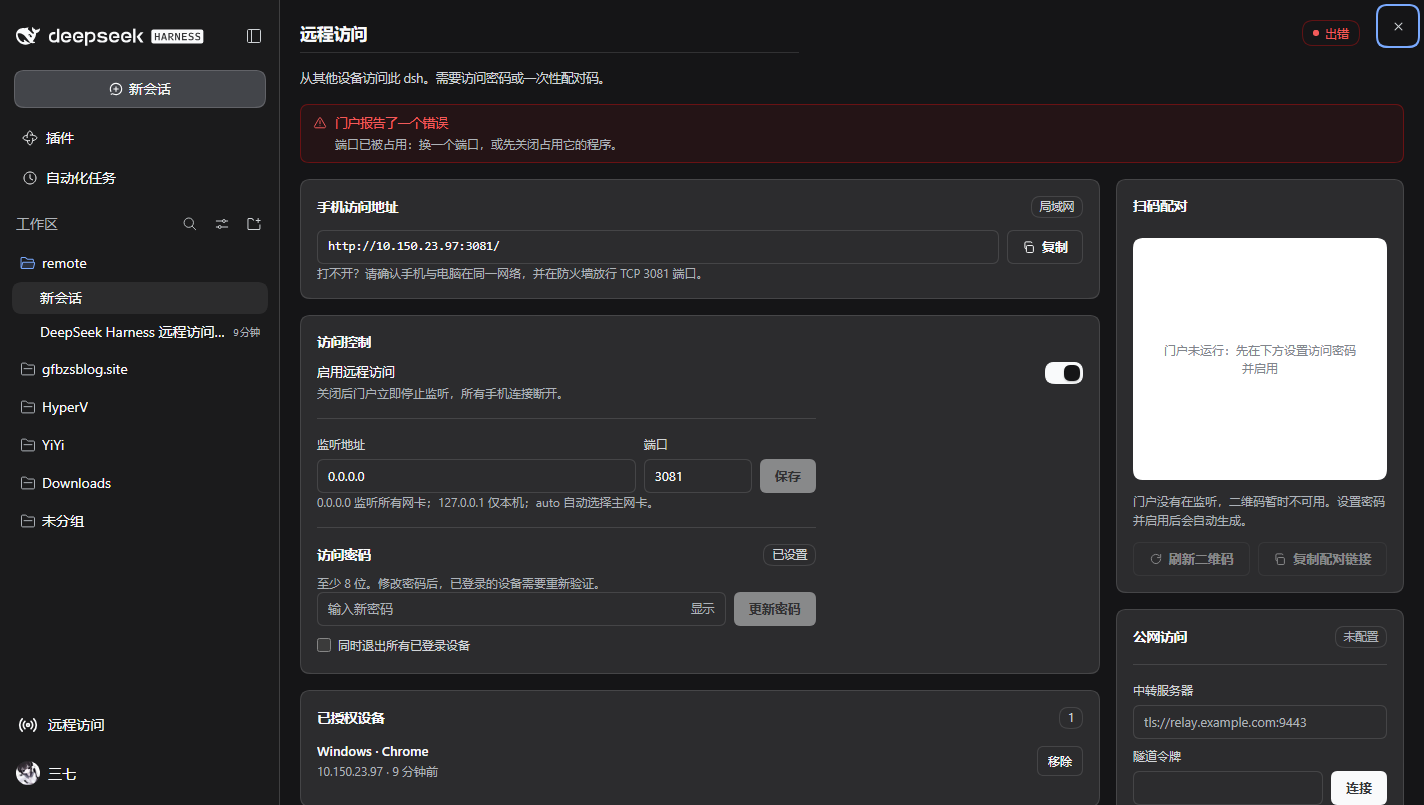
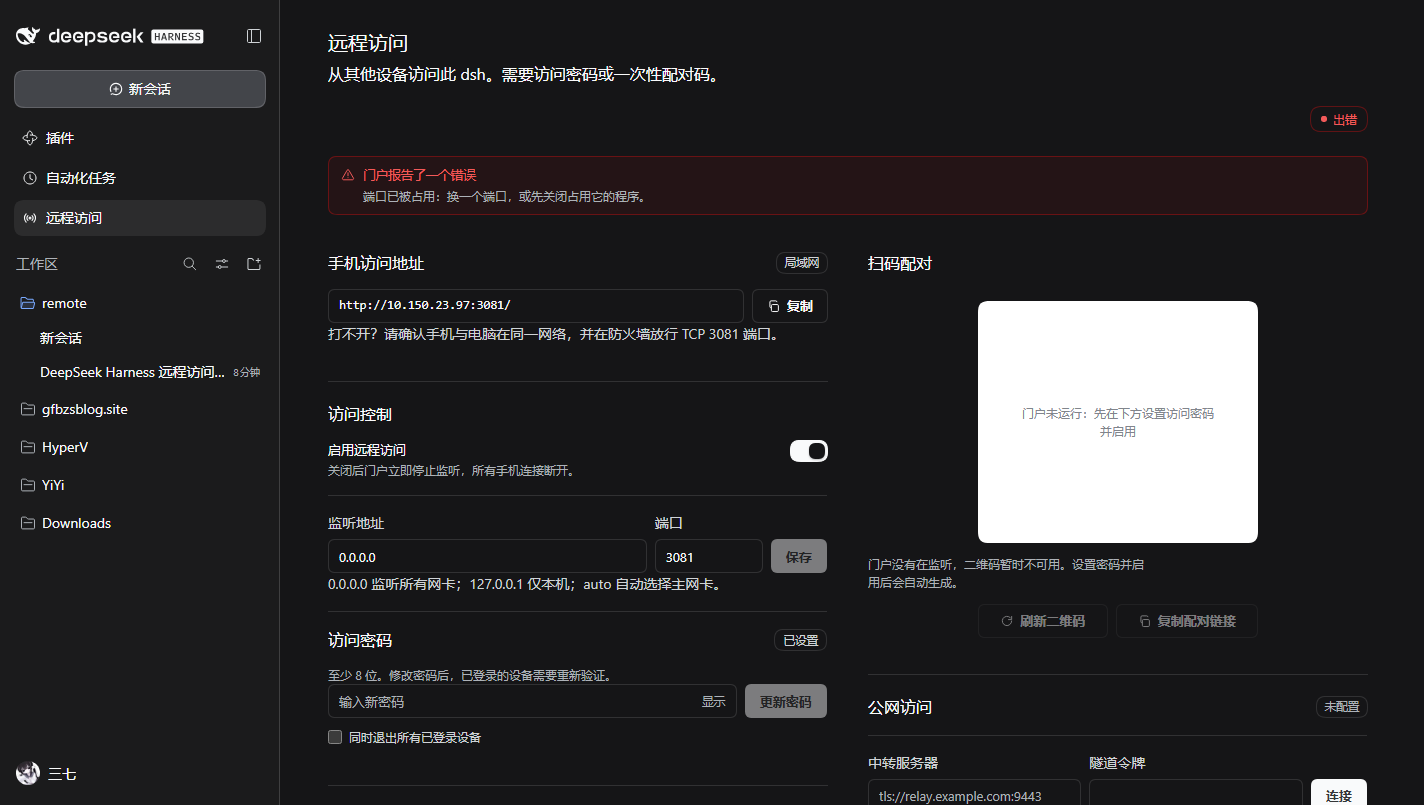
feat!: the panel is a real main-area page (0.3.0)
The host has two slots that make a page: sidebar.panellist (the button) and main
(a keyed slot dispatched by that entry's id). Registering the same id in both --
what plugin-manager and schedule do -- gives a page switch, no overlay:

- selecting 插件 or a session leaves the panel by itself; the X is gone
- the conversation DOM is replaced instead of covered, so navigation keeps working
- the entry is a first-class sidebar row with the Harness mark
- ?panel=1 selects that row instead of forcing a view

Typography now matches the host page measured off 插件: 48px gutters, 20px/500
title, 16px body, divider-separated groups instead of cards, two columns on wide
pages and one on narrow, duplicate title removed.

Removed the shell.overlay sheet and the sidebar.footer.action entry: one home.

76 tests green.

diff --git a/client.js b/client.js
@@ -56,7 +56,7 @@ window.__ModuleLoader__.load({
     // prefix. An absolute path here would break remote access through a tunnel.
     var BASE = "./dsh-remote-portal";
   // Must match package.json: it is what busts the browser cache for the layer.
-  var CLIENT_VERSION = "0.2.9";
+  var CLIENT_VERSION = "0.3.0";
     var POLL_MS = 3000;         // status poll while the settings page is visible
     var MIN_PW = 8;             // matches the host's "≥8 recommended" rule (§3)
     var COPY_FEEDBACK_MS = 1600;
@@ -632,6 +632,26 @@ window.__ModuleLoader__.load({
       ".drp-x:hover{background:rgba(127,127,127,.14);color:var(--drp-fg)}",
       ".drp-x:focus-visible{outline:2px solid var(--drp-link);outline-offset:2px}",
       ".drp-sheet-x{position:absolute;top:12px;right:12px;z-index:5;width:36px;height:36px;background:transparent;border:0;display:grid;place-items:center;color:var(--drp-fg2);border-radius:9px}",
+      /* main-area page (the panel's home) */
+      ".drp-page{height:100%;overflow-y:auto;overscroll-behavior:contain;padding:0 48px 48px}",
+      ".drp-page-inner{width:100%;max-width:100%;margin:0}",
+      /* The host page header: 20px/500 title, 16px supporting line. */
+      ".drp-page-head{display:flex;align-items:flex-start;justify-content:space-between;gap:16px;padding:28px 0 20px}",
+      ".drp-page-title{margin:0;font-size:20px;font-weight:500;line-height:28px;letter-spacing:0}",
+      ".drp-page-sub{margin:6px 0 0;font-size:16px;line-height:24px;color:var(--drp-fg2)}",
+      /* Groups, not cards: the host uses a divider and a group label. */
+      ".drp-page .drp-card{background:transparent;border:0;border-top:0.5px solid var(--drp-line);border-radius:0;padding:20px 0}",
+      ".drp-page .drp-card:first-of-type{border-top:0}",
+      ".drp-page .drp-card-head{margin:0 0 14px}",
+      ".drp-page .drp-card-title{font-size:16px;font-weight:500;line-height:24px}",
+      ".drp-page .drp-label{font-size:14px;color:var(--drp-fg2)}",
+      ".drp-page .drp-hint{font-size:14px;line-height:22px;color:var(--drp-fg2)}",
+      /* Two columns when the page is wide enough, one when it is not — the same
+         behaviour the host's own pages have. */
+      ".drp-page .drp-grid{display:grid;grid-template-columns:minmax(0,1fr) minmax(0,1fr);gap:0 40px;align-items:start}",
+      ".drp-page .drp-head{padding:0 0 8px}",
+      ".drp-page .drp-head-top{justify-content:flex-end}",
+      "@media (max-width:900px){.drp-page{padding:0 20px 32px}.drp-page-head{padding:18px 0 14px}}",
       /* directory picker */
       ".drp-picker-body{display:flex;flex-direction:column;min-height:0;overflow:hidden}",
       ".drp-picker{flex:1 1 auto;min-height:0;width:100%;max-width:880px;margin:0 auto;display:flex;flex-direction:column;gap:10px}",
@@ -1139,6 +1159,7 @@ window.__ModuleLoader__.load({
       // The same component renders in two surfaces: inline in Settings, and
       // inside the shell.overlay sheet (props.sheet + props.onClose).
       var inSheet = !!(props && props.sheet);
+      var isPage = !!(props && props.page);
       var stateRef = useState(INITIAL);
       var st = stateRef[0];
       var setSt = stateRef[1];
@@ -1878,14 +1899,15 @@ window.__ModuleLoader__.load({
           // owns the full width underneath, so a long sentence never pushes the
           // pill onto a line of its own on a phone.
           h("div", { className: "drp-head-top" },
-            h("h2", {
+            // In page mode the page header owns the title; the section keeps the pill.
+            isPage ? null : h("h2", {
               className: "drp-title",
               // Only the sheet instance claims the dialog's label id, so the
               // inline section can never collide with it.
               id: inSheet ? "drp-sheet-title" : undefined
             }, t("section")),
             h(StatusPill, { tone: tone })),
-          h("p", { className: "drp-sub" }, t("subtitle"))),
+          isPage ? null : h("p", { className: "drp-sub" }, t("subtitle"))),
 
         alerts.length ? h("div", { className: "drp-alerts" }, alerts) : null,
 
@@ -2353,57 +2375,68 @@ window.__ModuleLoader__.load({
       // 0) Global stylesheet first: every surface below depends on it.
       try { mountBaseCss(ctx); } catch (e) { /* never fatal */ }
 
-      // 1) Settings → 远程访问: deliberately not registered. The sidebar entry is
-      //    the single home; a second copy inside Settings duplicated every control
-      //    and read as a different destination.
-
-      // 2) Sidebar footer shortcut. Older hosts have no such slot; inject() is
-      //    a no-op there, and any throw is swallowed.
+      // 1) A real page in the main column, exactly like 插件 / 自动化任务.
+      //
+      //    The host dispatches `main` by the sidebar entry's id: registering the
+      //    same id in `sidebar.panellist` (the button) and `main` (the page) is
+      //    what makes it a page switch rather than an overlay — the sidebar keeps
+      //    working and selecting a session or another panel closes it by itself.
+      var PANEL_ID = "dsh-remote-portal";
       try {
         if (ctx && ctx.slots && typeof ctx.slots.inject === "function") {
-          ctx.slots.inject("sidebar.footer.action", function () {
+          ctx.slots.inject("sidebar.panellist", function () {
             return ctx.slots.register({
-              name: "sidebar.footer.action",
-              id: "dsh-remote-portal-nav",
-              order: 60,
+              name: "sidebar.panellist",
+              id: PANEL_ID,
+              order: 90,
               label: function () { return t("navLabel"); }
-            }, NavEntry);
+            }, function PanelIcon(props) {
+              return h(Icon, { name: "portal", size: (props && props.size) || 18 });
+            });
+          });
+          ctx.slots.inject("main", function () {
+            return ctx.slots.register({ name: "main", key: PANEL_ID }, function PanelPage() {
+              return h("div", { className: "drp-ui drp-page" },
+                h("div", { className: "drp-page-inner" },
+                  h("header", { className: "drp-page-head" },
+                    h("div", null,
+                      h("h1", { className: "drp-page-title" }, t("navLabel")),
+                      h("p", { className: "drp-page-sub" }, t("subtitle")))),
+                  h(RemotePortalSection, { page: true })));
+            });
           });
         }
-      } catch (e) { /* slot absent: the settings entry still works */ }
-
-      // 3) The sheet the sidebar entry opens. Kept in its own try/catch: a host
-      //    without shell.overlay only loses the shortcut, never the panel.
-      try {
-        if (ctx && ctx.slots && typeof ctx.slots.inject === "function") {
-          ctx.slots.inject("shell.overlay", function () {
-            return ctx.slots.register({
-              name: "shell.overlay",
-              id: "dsh-remote-portal-sheet",
-              order: 95
-            }, PortalOverlayRouter);
-          });
-        }
-      } catch (e) { /* slot absent: the settings section remains the home */ }
+      } catch (e) { /* slot absent: nothing to attach to */ }
 
       // 4) App-wide mobile layer.
       try { mountAssets(ctx); } catch (e) { /* never fatal */ }
 
-      // 5) Deep link: `?panel=1` opens the sheet on load.
+      // 5) Deep link: `?panel=1` selects the panel, the same way a click would.
       //
-      //    A query parameter, not a hash: the Harness shell routes on the hash and
-      //    an unknown value there stops the whole client tree from mounting (the
-      //    plugin then looks broken rather than unopened). Query parameters are
-      //    ignored by the shell, so this stays a harmless no-op when absent.
+      //    A query parameter, not a hash: the shell routes on the hash and an
+      //    unknown value there stops the client tree from mounting. Selecting the
+      //    sidebar entry (rather than forcing a view) keeps one navigation path:
+      //    switching to 插件 or a session afterwards behaves exactly like a click.
       try {
         var params = new URLSearchParams(String(location.search || ""));
-        if (params.get("panel") === "1") setOverlayOpen(true);
+        if (params.get("panel") === "1") {
+          var selectEntry = function () {
+            var nav = doc().querySelectorAll("nav button, nav [role=button]");
+            for (var i = 0; i < nav.length; i++) {
+              if (String(nav[i].textContent || "").trim() === t("navLabel")) { nav[i].click(); return true; }
+            }
+            return false;
+          };
+          if (!selectEntry()) setTimeout(selectEntry, 900);
+        }
       } catch (e) { /* no window: ignore */ }
     }
 
     return { inject: ["slots"], apply: apply };
   }
 });
+
+
 
 
 

diff --git a/index.js b/index.js
@@ -33,7 +33,7 @@ export const inject = ["webServer"];
 
 const PLUGIN_NAME = "dsh-remote-portal";
 // Bumped with package.json; also used to invalidate the injected asset URLs.
-const PLUGIN_VERSION = "0.2.9";
+const PLUGIN_VERSION = "0.3.0";
 const PREFIX = "/dsh-remote-portal";
 const HERE = dirname(fileURLToPath(import.meta.url));
 const ASSET_DIR = join(HERE, "assets");
@@ -694,6 +694,7 @@ export function apply(ctx, config = {}) {
 
   log.info(`ready — state in ${stateDir}, panel at ${PREFIX}/status`);
 }
+
 
 
 

diff --git a/CHANGELOG.md b/CHANGELOG.md
@@ -3,6 +3,38 @@
 All notable changes to this project. The format is loosely [Keep a Changelog](https://keepachangelog.com/);
 versions are the plugin's own, not dsh's.
 
+## 0.3.0 — 2026-10-21
+
+### Changed — the panel is a real page, not an overlay
+The host exposes two slots that together make a page: `sidebar.panellist` (the
+button) and `main` (a keyed slot dispatched by that entry's **id**). Registering
+the same id in both — which is exactly what `client-ui-plugin-manager` and
+`client-ui-schedule` do — gives a page switch with no overlay at all:
+
+- selecting 插件 or a session now **leaves** the panel by itself; the X is gone
+- the conversation DOM is replaced instead of being covered, so the sidebar and
+  every navigation path keep working
+- the sidebar entry is a first-class row with the Harness mark, next to 插件 /
+  自动化任务, and shows the active state the host gives it
+- `?panel=1` selects that row instead of forcing a view
+
+Verified in a live instance: `pageRendered: true`, `conversationGone: true`,
+`sidebarWidth: 280`, and `panelGoneAfterSwitch: true` after clicking 插件.
+
+### Changed — the page follows the host's own typography
+Measured off the 插件 page and applied: 48 px page gutters, **20 px/500 title**
+with a 16 px supporting line, sections as divider-separated groups instead of
+cards, 16 px body text, 14 px labels and hints, full-width inputs, two columns
+when the page is wide and one when it is not. The duplicate title (page header +
+section header) is gone.
+
+### Removed
+- the `shell.overlay` sheet and the `sidebar.footer.action` entry: one home, one
+  navigation path.
+
+### Tests
+- 76 tests green (~64 s).
+
 ## 0.2.9 — 2026-10-21
 
 ### Changed
@@ -388,6 +420,7 @@ real sockets.
 Initial version: authenticated gateway (HTTP + WebSocket reverse proxy), password
 / one-time QR pairing / device registry / lockout, dsh browser-cookie minting,
 login wall, Settings panel, mobile presentation layer, install script, 51 tests.
+
 
 
 
